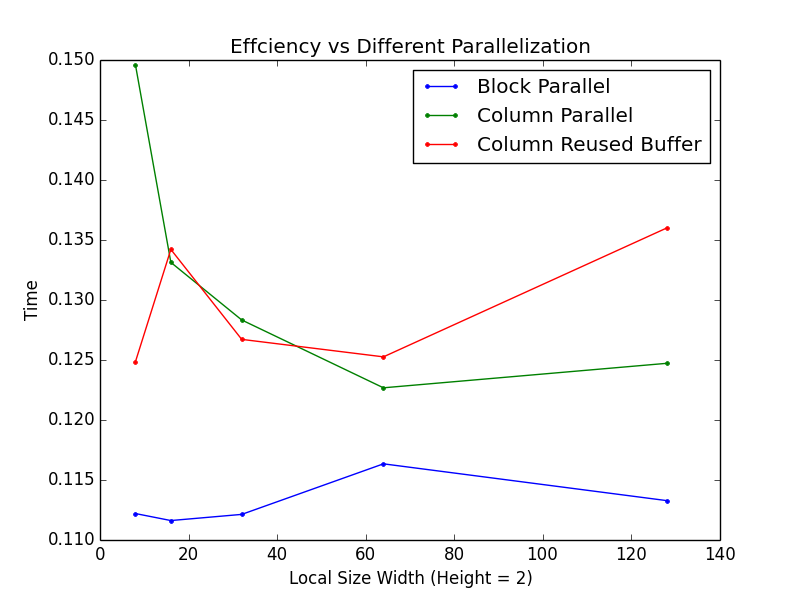
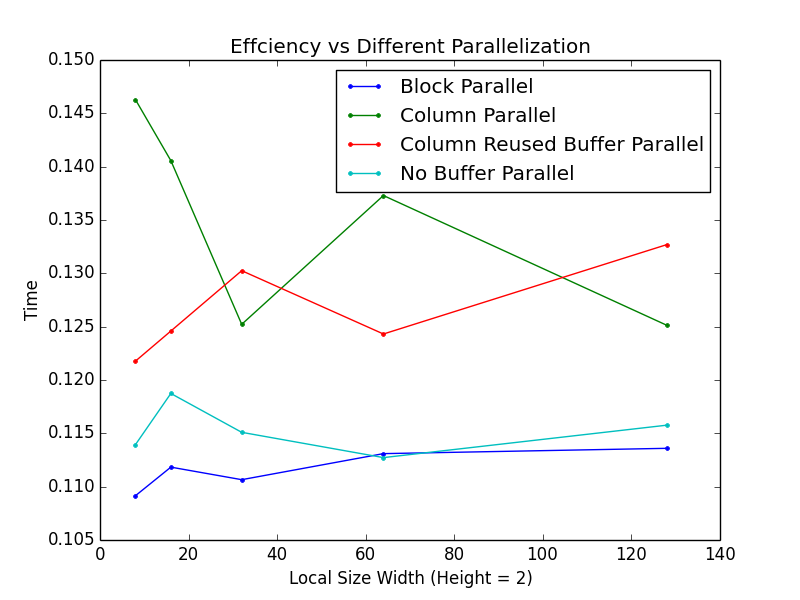
No Buffer Version Added

diff --git a/aniso_openCL.py b/aniso_openCL.py
@@ -30,8 +30,8 @@ def numpy_median(image, iterations=10):
 if __name__ == '__main__':
     # List our platforms
     size1 = [8, 16, 32, 64, 128]
-    labels = ["Block Parallel", "Column Parallel", "Column Reused Buffer"]
-    for method in xrange(3):
+    labels = ["Block Parallel", "Column Parallel", "Column Reused Buffer Parallel", "No Buffer Parallel"]
+    for method in xrange(4):
         times = []
         for size in size1:
             platforms = cl.get_platforms()
@@ -63,7 +63,7 @@ if __name__ == '__main__':
             print 'The queue is using the device:', queue.device.name
 
             curdir = os.path.dirname(os.path.realpath(__file__))
-            #program = cl.Program(context, open('anisodiff.cl').read()).build(options=['-I', curdir])
+
             program = cl.Program(context, open('aniso_openCL.cl').read()).build(options=['-I', curdir])
 
             host_image = np.load('image.npz')['image'].astype(np.float32).copy()
@@ -80,7 +80,7 @@ if __name__ == '__main__':
             local_size = (size, 2)  # 64 pixels per work group (32, 8)
 
             global_size = tuple([round_up(g, l) for g, l in zip(host_image.shape[::-1], local_size)]) #(global image size, 1)
-            if method != 0: global_size = (global_size[0], local_size[1])
+            if method not in {0,3}: global_size = (global_size[0], local_size[1])
 
             width = np.int32(host_image.shape[1])
             height = np.int32(host_image.shape[0])
@@ -107,6 +107,8 @@ if __name__ == '__main__':
             pylab.imshow(host_image[1200:1800, 3000:3500])
             pylab.title('before - zoom')
             '''
+           
+            
             l = 0.2
             num_iters = 40
      
@@ -122,9 +124,14 @@ if __name__ == '__main__':
                                            gpu_image_a, gpu_image_b, local_memory,
                                            width, height,
                                            buf_width, buf_height, halo, np.float32(l));
-                    else:
+                    elif method == 2:
                         program.aniso_reusedparallel(queue, global_size, local_size,
                                            gpu_image_a, gpu_image_b, local_memory,
+                                           width, height,
+                                           buf_width, buf_height, halo, np.float32(l));
+                    else:
+                        program.aniso_nobufferparallel(queue, global_size, local_size,
+                                           gpu_image_a, gpu_image_b, 
                                            width, height,
                                            buf_width, buf_height, halo, np.float32(l));
 
@@ -134,11 +141,17 @@ if __name__ == '__main__':
                 cl.enqueue_copy(queue, host_image_filtered, gpu_image_a, is_blocking=True)
             print("{} seconds for 40 filter passes using vectorization in openCL.".format(t1.interval))
             times.append(t1.interval)
+            '''
+            pylab.figure()
+            pylab.imshow(host_image_filtered[1200:1800, 3000:3500])
+            pylab.title('after - zoom')
+            '''
         pylab.plot(size1, times, label = labels[method], marker = ".")
         pylab.title("Effciency vs Different Parallelization")
         pylab.xlabel("Local Size Width (Height = 2)")
         pylab.ylabel("Time")
         pylab.legend(loc="best")
+        
     pylab.show()
 
     '''

diff --git a/README.md b/README.md
@@ -27,6 +27,10 @@ This method sacrifices parallelization for less number of workgroups in total wi
 
 Because the size of our halo is greater than 0. The buffer we construct and update in the second method will have overlapped parts in the iteration. The index trick captures the feature and update the values only when necessary, as demonstrated in the image below (special thanks Ray for drawing the image).
 
+####Method 4: Blockwise Parallel without Local Buffer
+
+The last method is to get rid of the local buffer and read the pixel values from the global memory directly instead. Theoretically, reading from the global memory would be slow. However, in my system, this method outperforms the other three.
+
 ![](img/index_trick.png)
 
 ### Code Instructions
@@ -65,7 +69,7 @@ median filter OpenCL kernel
 
 ### Performance Conclusion
 
-The result from the Harvard library image shows that the third method slightly outperforms the other two given that we optimize the workgroup. However, when we used a much smaller image, the block wise parallel method has better performance.
+The result from the both images shows that the last method outperforms the other two given that we optimize the workgroup. In the Harvard library case, this is followed by the method with the buffer index trick, which does a slightly better job than the rest. However, when we use a much smaller image, the block wise parallel method has the second better performance.
 
 
 ### References
